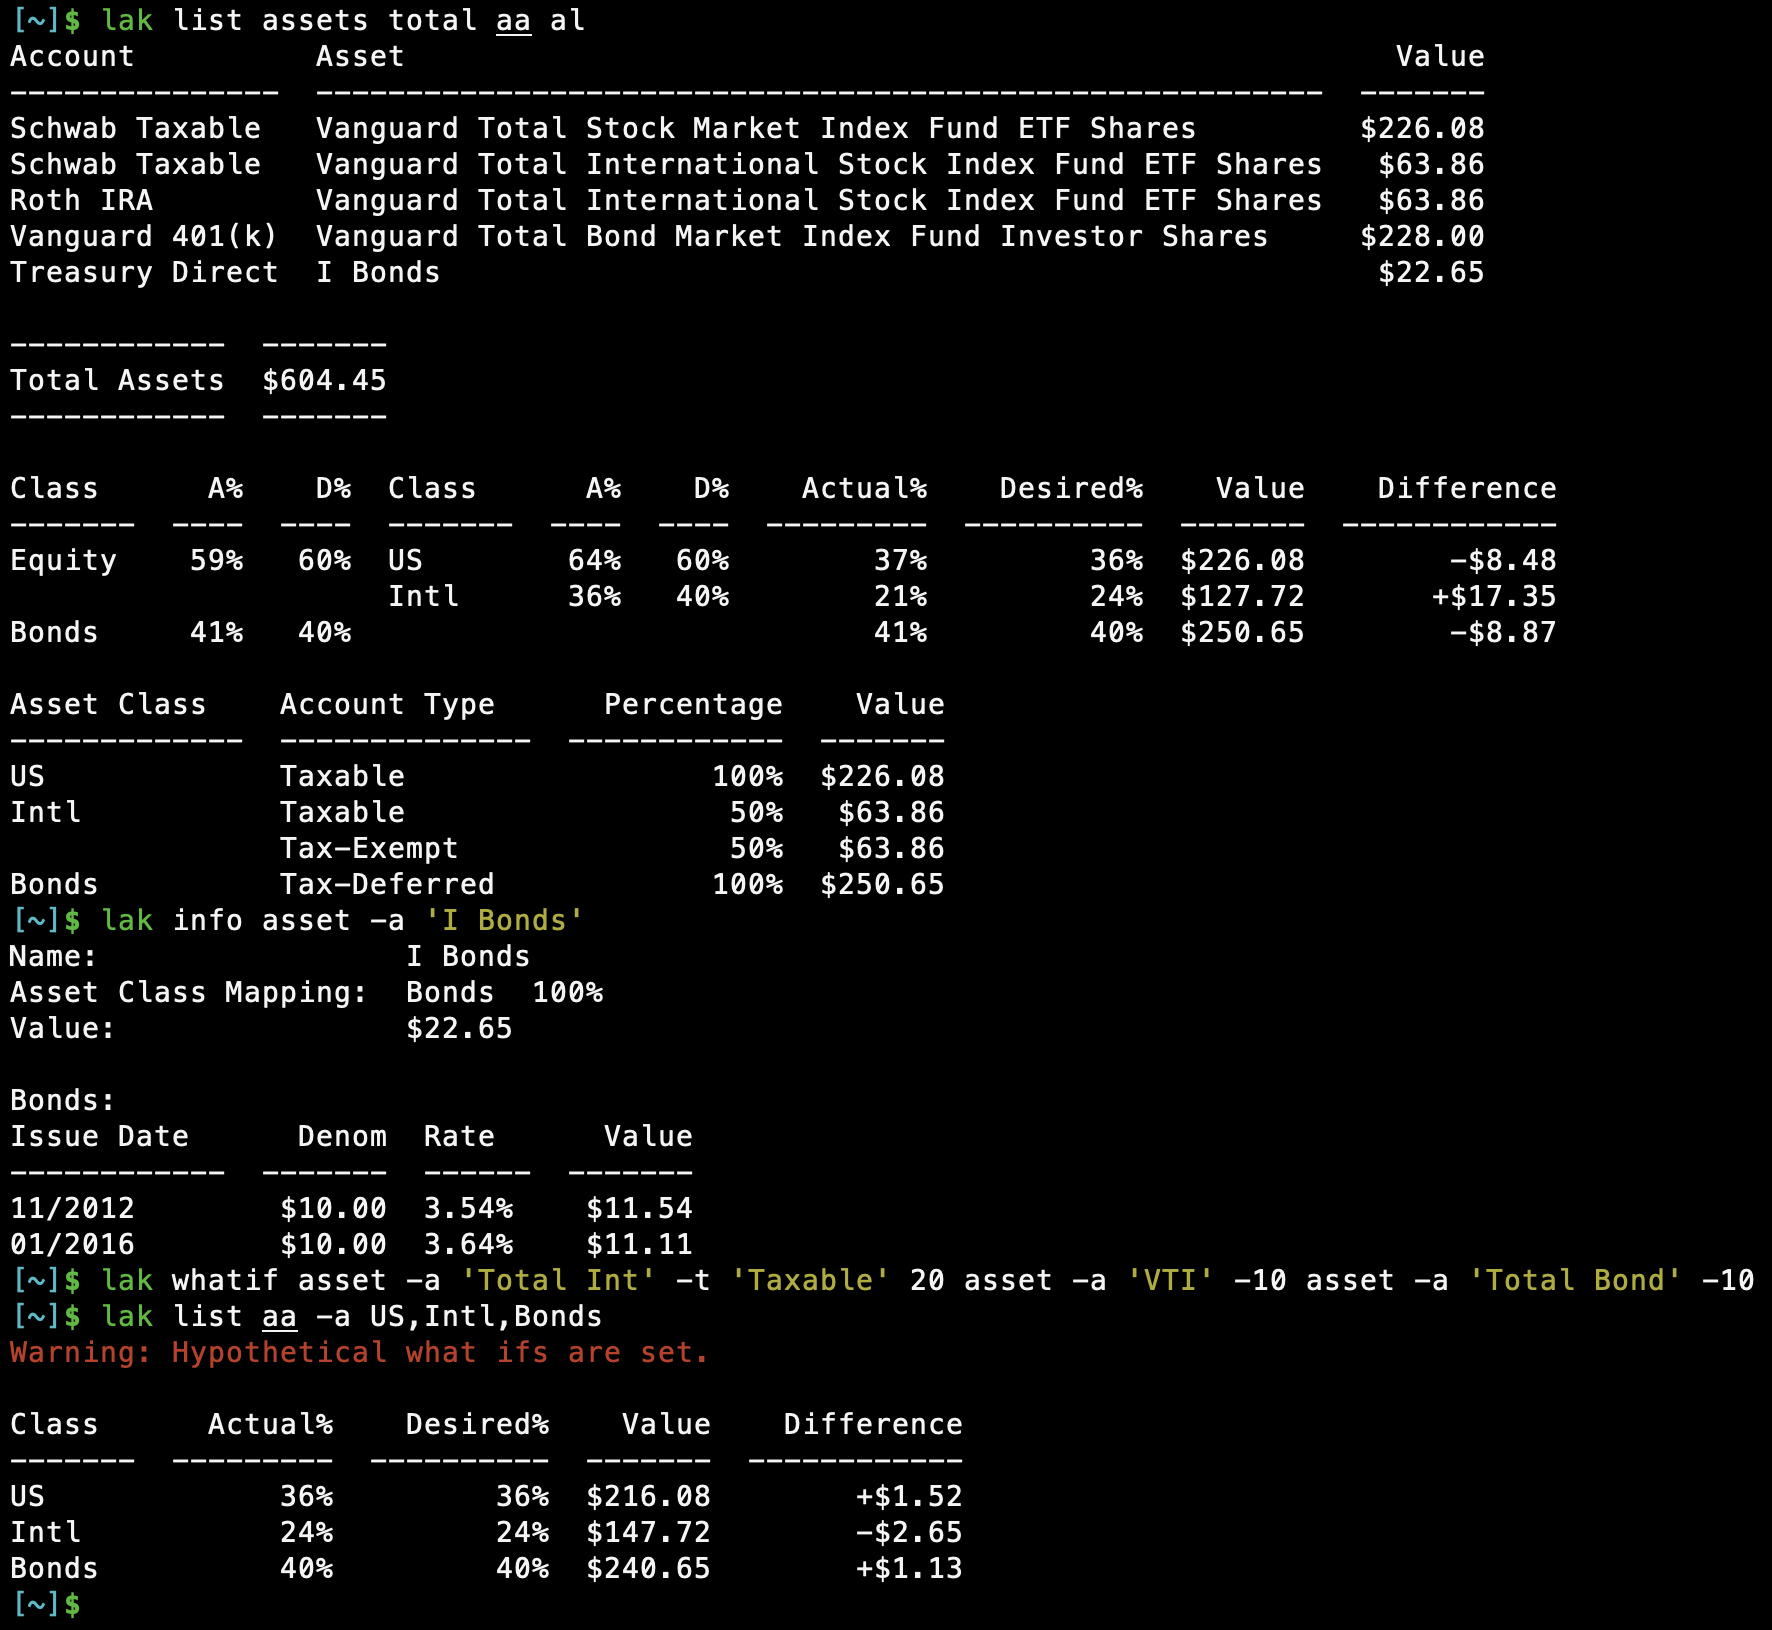
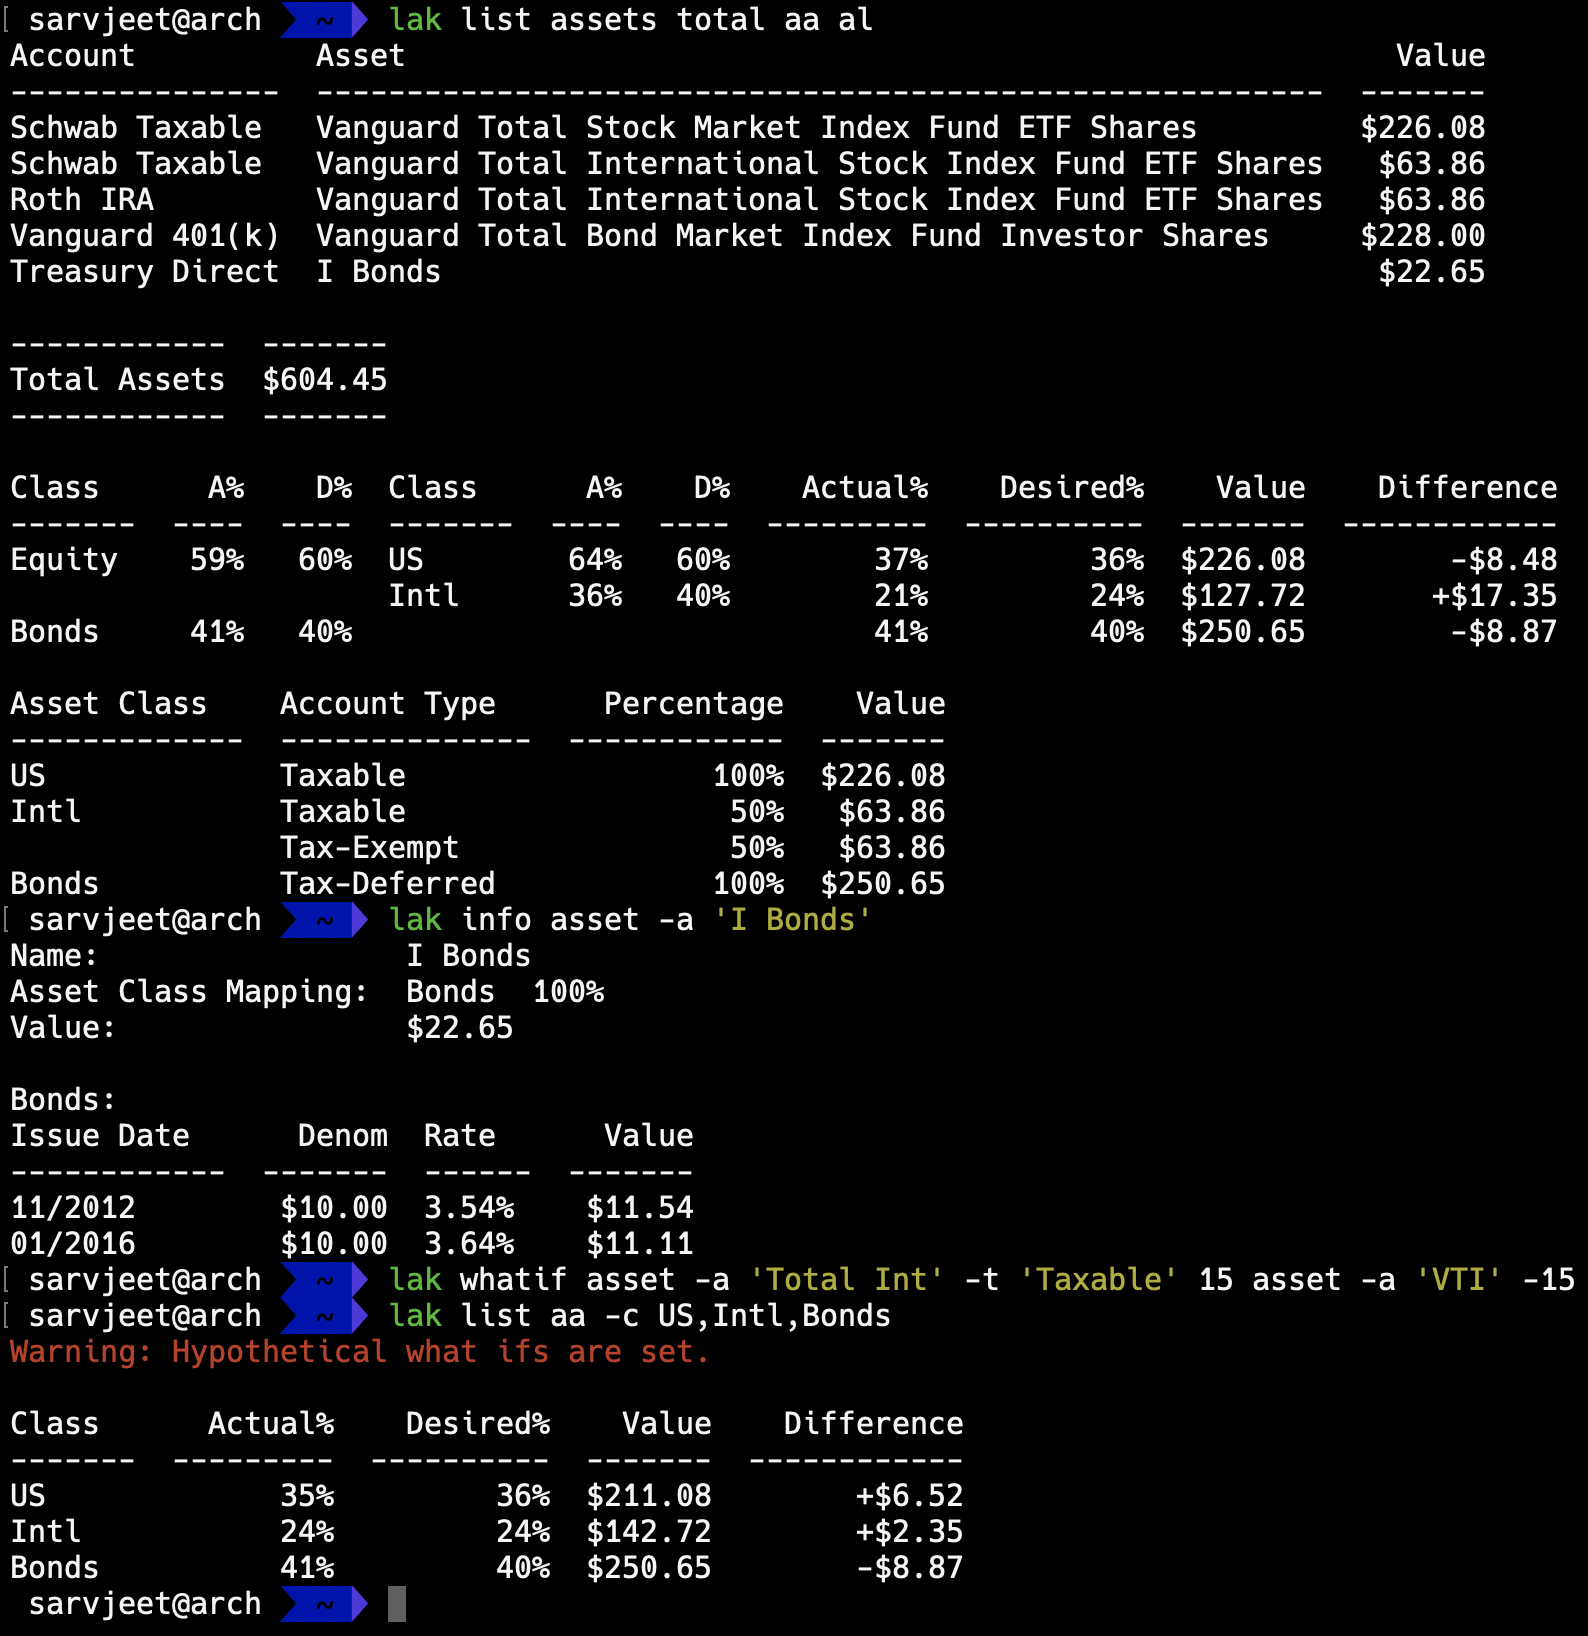
Change asset-class short option from -a to -c
-a is already being used for specifying assets names. Using
it for asset-class is a big confusing.

Changed region(s): [[0.0, 0.0, 0.9874, 1.0], [0.3086, 0.2761, 0.9874, 0.3988], [0.0926, 0.2761, 0.3086, 0.3988]]

diff --git a/lakshmi/lak/__init__.py b/lakshmi/lak/__init__.py
@@ -170,7 +170,7 @@ def al():
 @click.option('--compact/--no-compact', default=True, show_default=True,
               help='Print the Asset allocation tree in a vertically '
               'compact format')
-@click.option('--asset-class', '-a', type=str,
+@click.option('--asset-class', '-c', type=str,
               help='If provided, only print asset allocation for these asset '
               'classes. This is a comma separated list of asset classes (not '
               'necessarily leaf asset classes) and the allocation across '

diff --git a/docs/lak.md b/docs/lak.md
@@ -776,7 +776,7 @@ Usage: lak list aa [OPTIONS]
 Options:
   --compact / --no-compact  Print the Asset allocation tree in a vertically
                             compact format  [default: compact]
-  -a, --asset-class TEXT    If provided, only print asset allocation for these
+  -c, --asset-class TEXT    If provided, only print asset allocation for these
                             asset classes. This is a comma separated list of
                             asset classes (not necessarily leaf asset classes)
                             and the allocation across these asset classes
